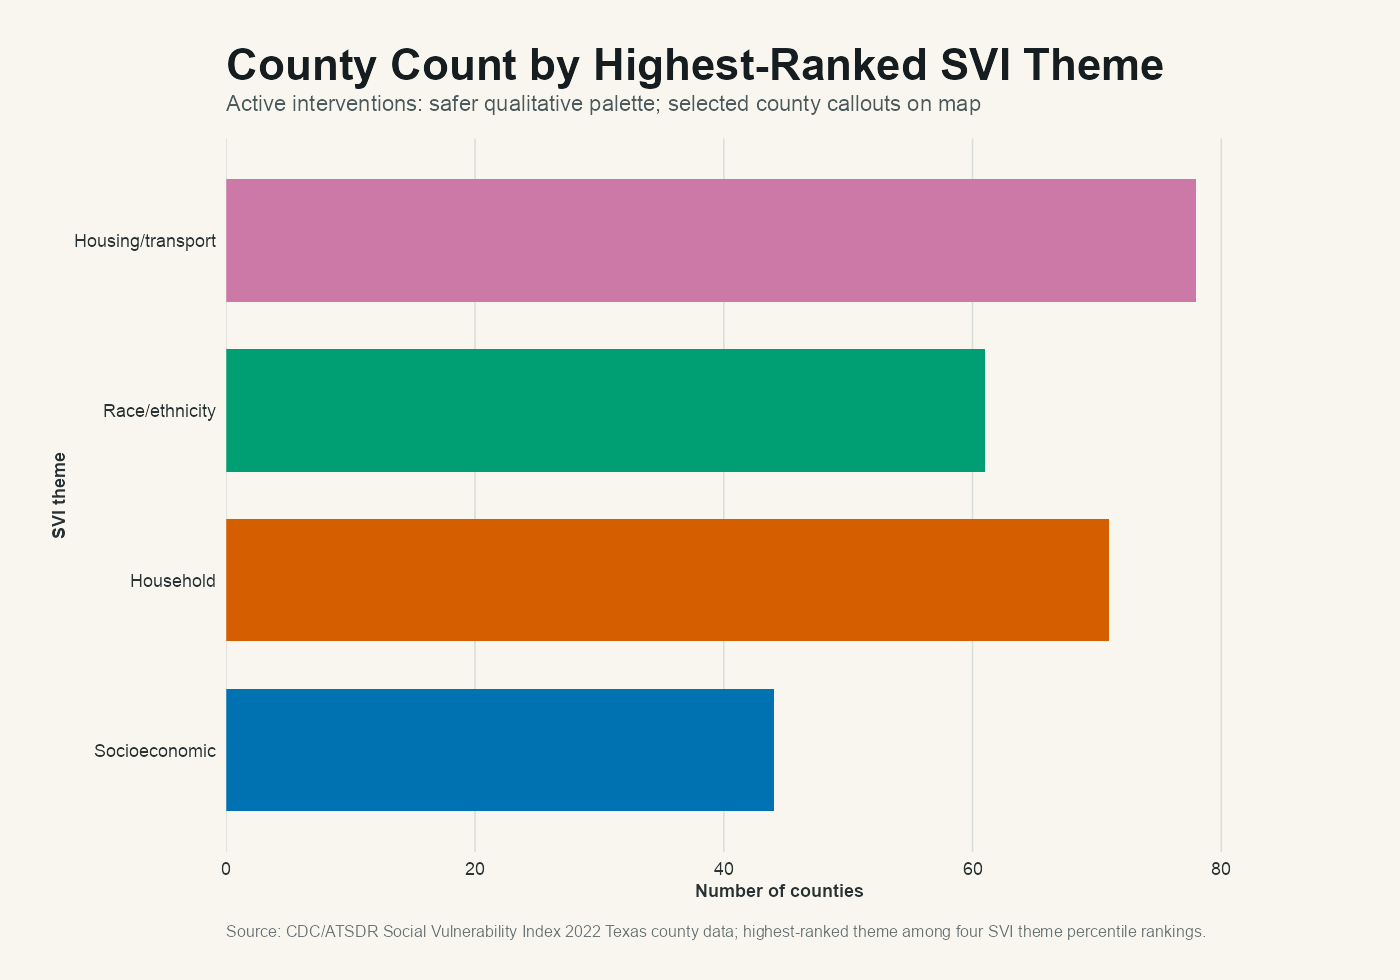
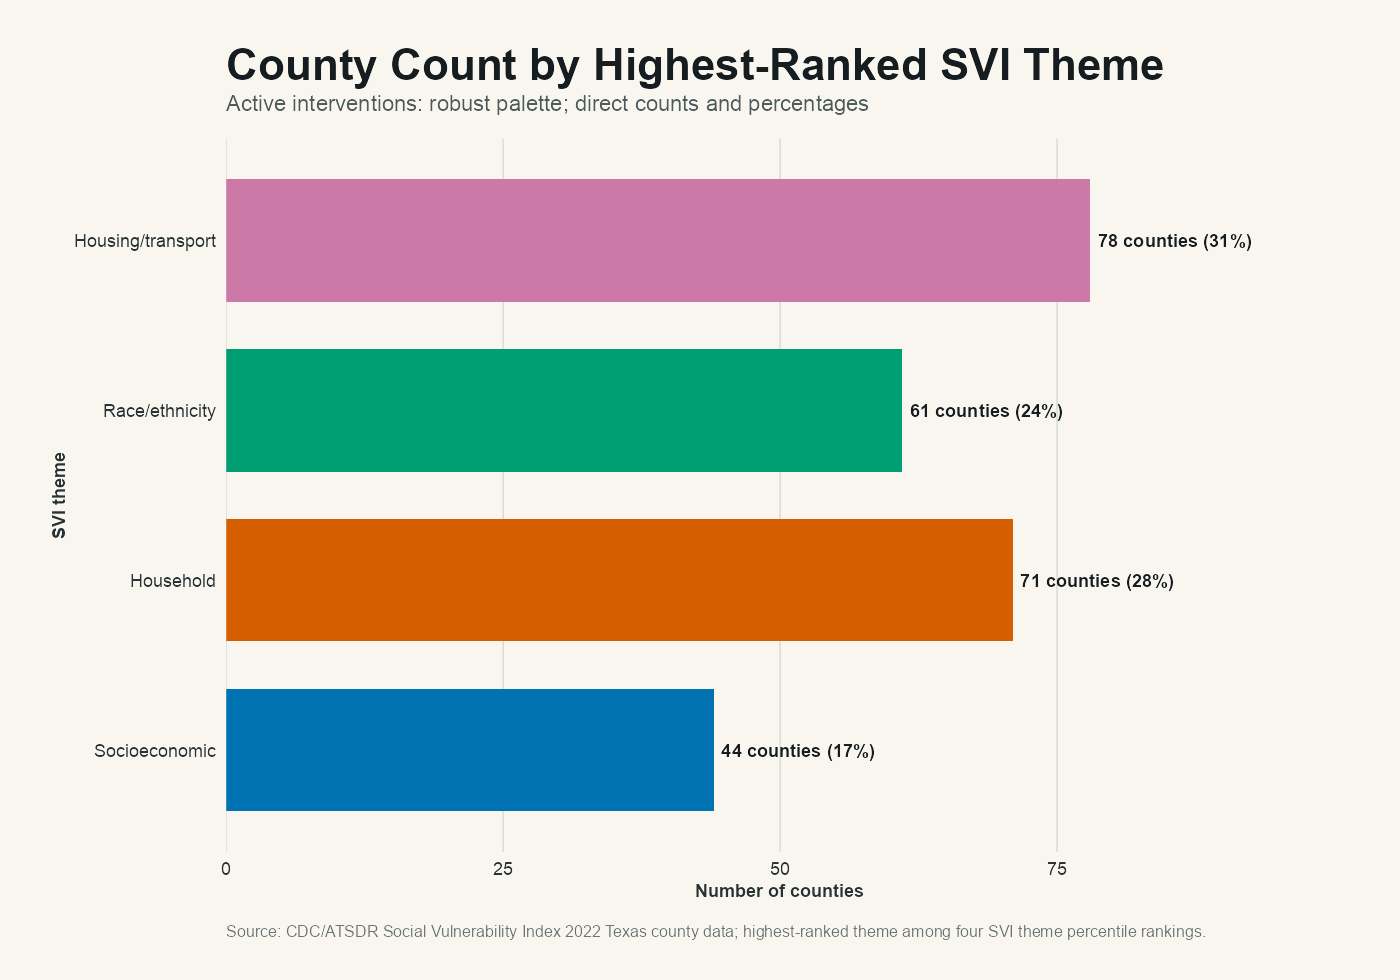
Strengthen categorical SVI texture markers

diff --git a/src/config/visualizationExamples.js b/src/config/visualizationExamples.js
@@ -148,33 +148,33 @@ export const visualizationExamples = [
     predictionPrompt:
       "Predict which intervention will make theme identity easiest to recover under the selected stress test.",
     recommendedSummary:
-      "The recommended combination uses a safer qualitative palette and category-specific symbols so theme identity no longer depends on hue alone. County callouts are left off because they add density without helping the county-count task.",
+      "The recommended combination uses a robust palette and density-coded texture markers so theme identity no longer depends on hue alone. Labels and annotation add selected county examples on the map and direct county counts and percentages on the chart.",
     recommendedInterventions: {
       palette: true,
       redundantCue: true,
-      labels: false,
+      labels: true,
     },
     interventions: {
       palette: {
-        label: "Qualitative palette",
+        label: "Robust palette",
         shortLabel: "Palette",
         description:
-          "The alternative qualitative palette uses more separable theme colors without implying a numeric order.",
+          "The robust palette uses more separable theme colors without implying a numeric order.",
         effect: "Directly reduces color dependence for nominal category identity.",
       },
       redundantCue: {
-        label: "Theme symbols",
-        shortLabel: "Symbols",
+        label: "Texture markers",
+        shortLabel: "Markers",
         description:
-          "Each SVI theme gets a repeated symbol cue on the map, chart, and legend so identity is not carried by color alone.",
-        effect: "Adds a non-color cue for matching the same category across views.",
+          "Each SVI theme gets a repeated marker cue that varies by shape, spacing, and light/dark contrast across the map, chart, and legend.",
+        effect: "Adds a stronger non-color cue for matching the same category across views.",
       },
       labels: {
-        label: "County callouts",
-        shortLabel: "Callouts",
+        label: "Labels and Annotation",
+        shortLabel: "Labels",
         description:
-          "Selected county labels identify examples of each highest-ranked SVI theme on the map.",
-        effect: "Supports local lookup, but does not help determine which theme is most common and adds visual density.",
+          "Selected county labels identify examples of each highest-ranked SVI theme on the map, while the chart labels each bar with its county count and percentage.",
+        effect: "Supports local lookup and makes the county-count comparison directly readable without relying on bar length alone.",
       },
     },
     assets: {
